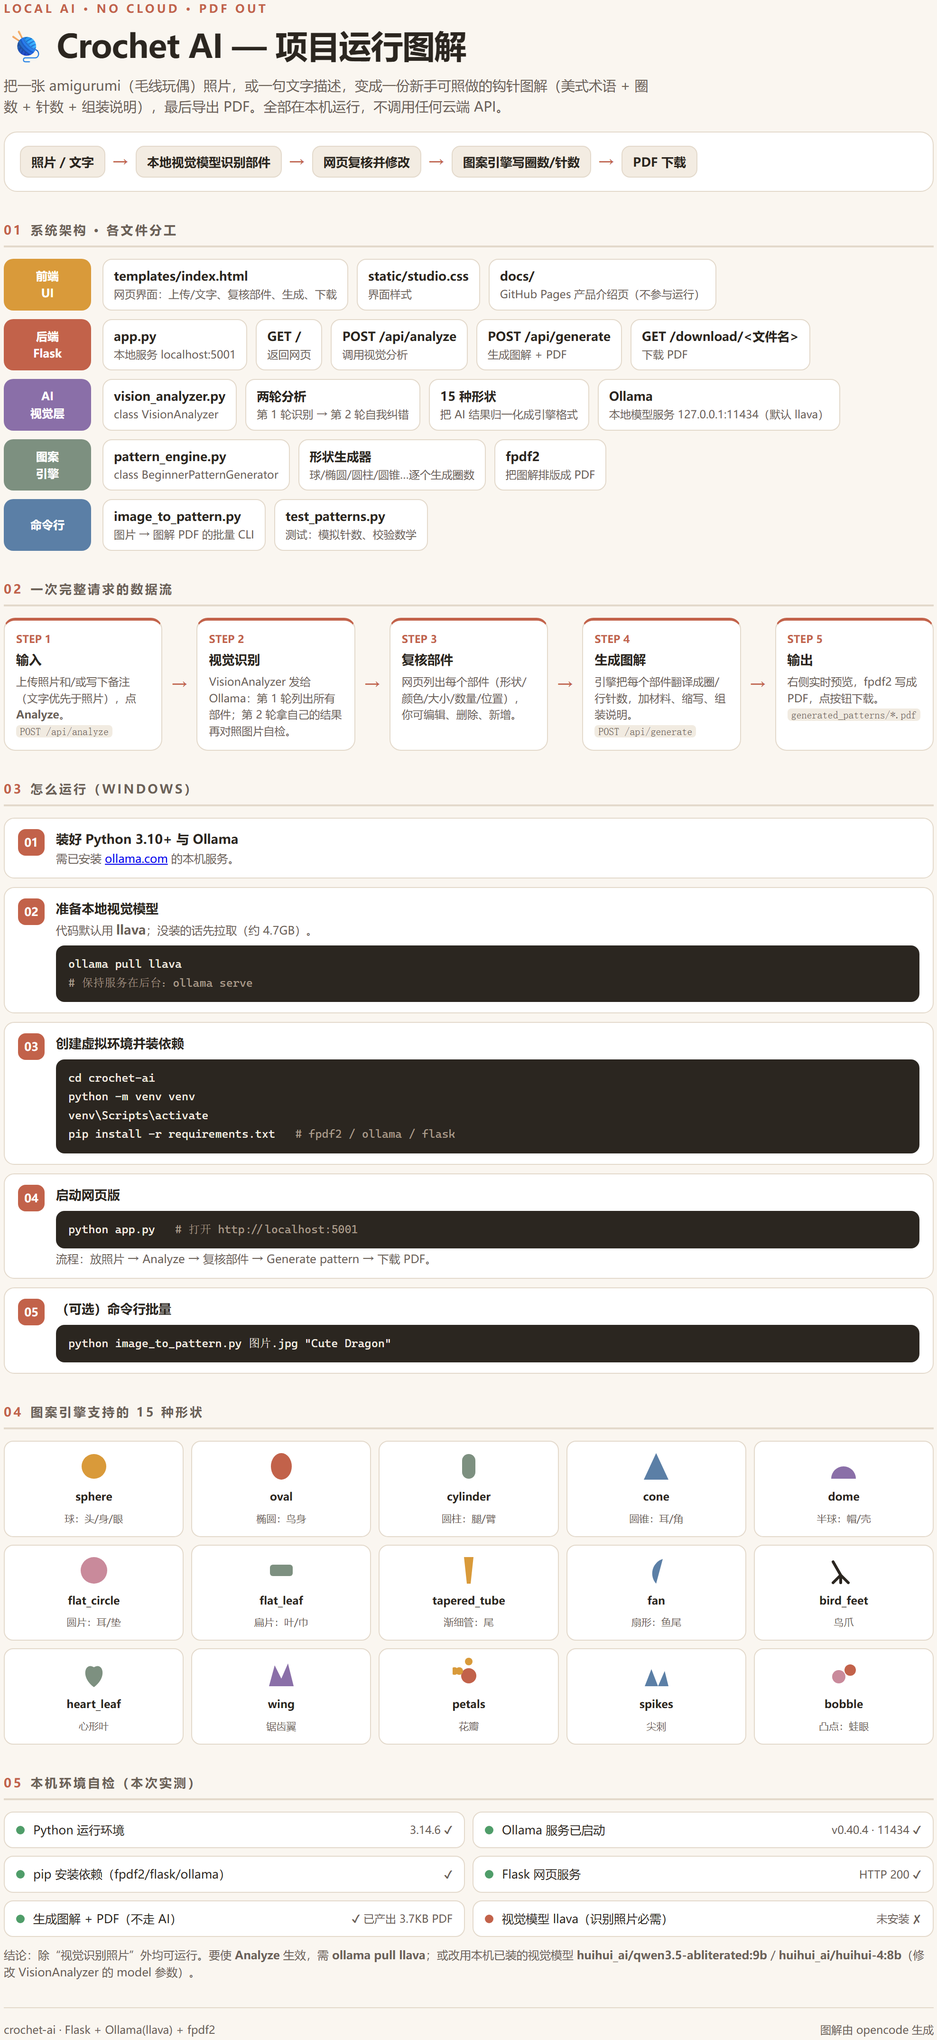
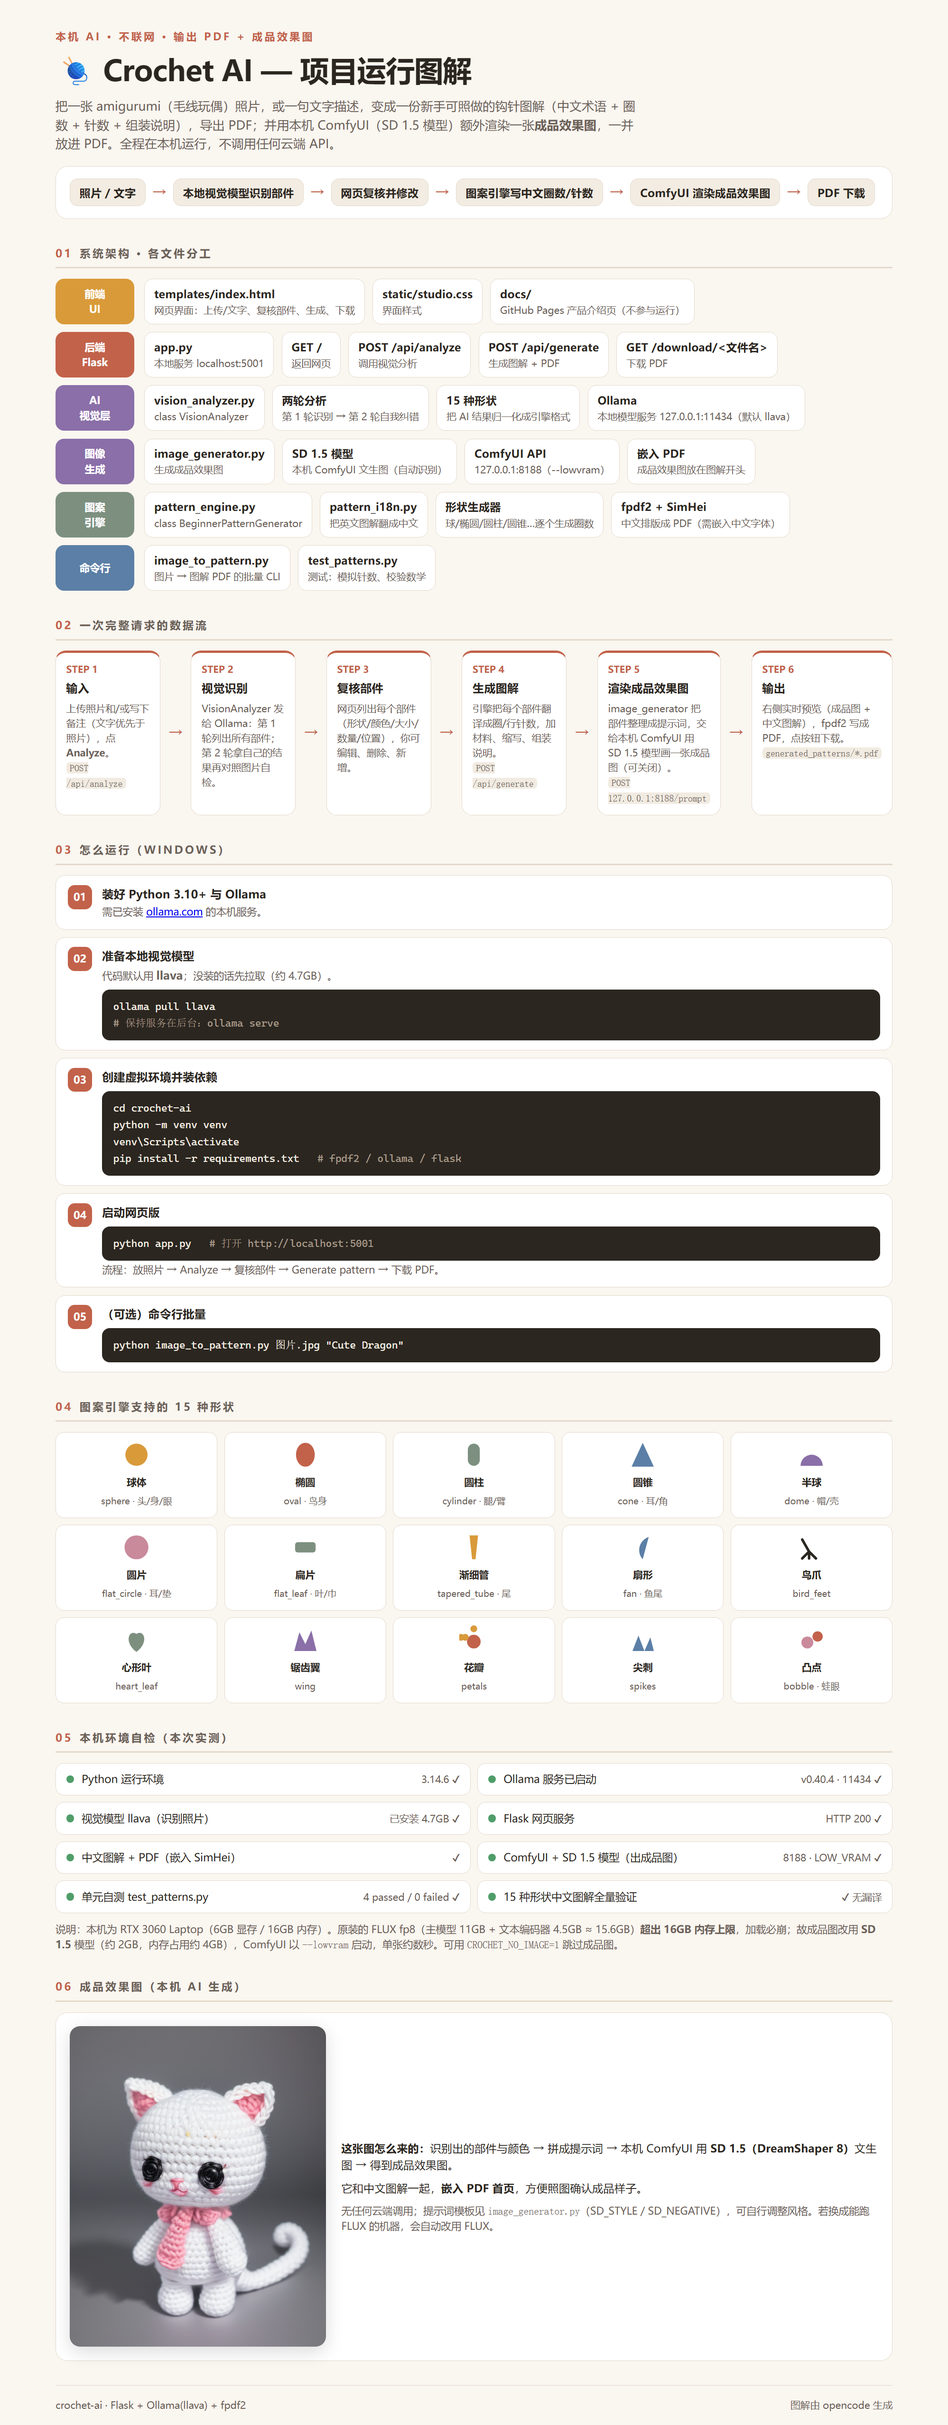
Add SD 1.5 backend for preview images; regenerate poster with a product image
The machine's FLUX install (unet 11 GB + t5 4.5 GB = 15.6 GB) does not fit in
16 GB of RAM, so FLUX cannot load here at all. image_generator.py now
auto-detects the backend: it prefers a plain checkpoint in models/checkpoints
(the 'sd' path: CheckpointLoaderSimple + KSampler, ~2-4 GB, runs comfortably on
this laptop) and only falls back to the FLUX unet workflow when no checkpoint
exists.

- image_generator.py: backend() detection, build_sd_workflow(), SD prompt
  template with a negative prompt, per-backend sizes/steps.
- README: documents both backends and the new env vars (COMFY_CKPT, COMFY_SIZE).
- diagrams/overview.html: all-Chinese poster, new '06 finished product' section
  with the real render, environment check updated.
- diagrams/preview.png + regenerated diagrams/crochet-ai-运行图解.png
  (1998x5107), rendered with headless Chrome.

diff --git a/diagrams/overview.html b/diagrams/overview.html
@@ -89,7 +89,7 @@
 
   <div class="kicker">本机 AI · 不联网 · 输出 PDF + 成品效果图</div>
   <h1>🧶 Crochet AI — 项目运行图解</h1>
-  <p class="lede">把一张 amigurumi（毛线玩偶）照片，或一句文字描述，变成一份新手可照做的钩针图解（中文术语 + 圈数 + 针数 + 组装说明），导出 PDF；并用本机 ComfyUI（FLUX）额外渲染一张<b>成品效果图</b>，一并放进 PDF。全程在本机运行，不调用任何云端 API。</p>
+  <p class="lede">把一张 amigurumi（毛线玩偶）照片，或一句文字描述，变成一份新手可照做的钩针图解（中文术语 + 圈数 + 针数 + 组装说明），导出 PDF；并用本机 ComfyUI（SD 1.5 模型）额外渲染一张<b>成品效果图</b>，一并放进 PDF。全程在本机运行，不调用任何云端 API。</p>
 
   <div class="flow-line">
     <span class="node">照片 / 文字</span><span class="arrow">→</span>
@@ -135,7 +135,7 @@
         <div class="tag t-ai">图像<br>生成</div>
         <div class="body">
           <div class="chip"><b>image_generator.py</b><span>生成成品效果图</span></div>
-          <div class="chip"><b>FLUX.1-dev (fp8)</b><span>本机 ComfyUI 文生图</span></div>
+          <div class="chip"><b>SD 1.5 模型</b><span>本机 ComfyUI 文生图（自动识别）</span></div>
           <div class="chip"><b>ComfyUI API</b><span>127.0.0.1:8188（--lowvram）</span></div>
           <div class="chip"><b>嵌入 PDF</b><span>成品效果图放在图解开头</span></div>
         </div>
@@ -187,7 +187,7 @@
       <div class="conn">→</div>
       <div class="pstep">
         <div class="num">STEP 5</div><h4>渲染成品效果图</h4>
-        <p>image_generator 把部件整理成提示词，交给本机 ComfyUI 用 FLUX 画一张成品图（可关闭）。</p>
+        <p>image_generator 把部件整理成提示词，交给本机 ComfyUI 用 SD 1.5 模型画一张成品图（可关闭）。</p>
         <p><code>POST 127.0.0.1:8188/prompt</code></p>
       </div>
       <div class="conn">→</div>
@@ -253,11 +253,11 @@ pip install -r requirements.txt   <span class="c"># fpdf2 / ollama / flask</span
       <div class="check"><span class="dot ok"></span>视觉模型 llava（识别照片）<span class="v">已安装 4.7GB ✔</span></div>
       <div class="check"><span class="dot ok"></span>Flask 网页服务<span class="v">HTTP 200 ✔</span></div>
       <div class="check"><span class="dot ok"></span>中文图解 + PDF（嵌入 SimHei）<span class="v">✔</span></div>
-      <div class="check"><span class="dot ok"></span>ComfyUI + FLUX.1-dev(fp8)<span class="v">8188 · LOW_VRAM ✔</span></div>
+      <div class="check"><span class="dot ok"></span>ComfyUI + SD 1.5 模型（出成品图）<span class="v">8188 · LOW_VRAM ✔</span></div>
       <div class="check"><span class="dot ok"></span>单元自测 test_patterns.py<span class="v">4 passed / 0 failed ✔</span></div>
       <div class="check"><span class="dot ok"></span>15 种形状中文图解全量验证<span class="v">✔ 无漏译</span></div>
     </div>
-    <p class="note" style="margin-top:10px;">说明：本机为 RTX 3060 Laptop（6GB 显存），FLUX fp8 需以 <b>--lowvram</b> 启动 ComfyUI，单张成品图约数十秒到数分钟；显存不足时可把渲染尺寸降到 512–768，或用 <code>CROCHET_NO_IMAGE=1</code> 跳过成品图。</p>
+    <p class="note" style="margin-top:10px;">说明：本机为 RTX 3060 Laptop（6GB 显存 / 16GB 内存）。原装的 FLUX fp8（主模型 11GB + 文本编码器 4.5GB ≈ 15.6GB）<b>超出 16GB 内存上限</b>，加载必崩；故成品图改用 <b>SD 1.5</b> 模型（约 2GB，内存占用约 4GB），ComfyUI 以 <code>--lowvram</code> 启动，单张约数秒。可用 <code>CROCHET_NO_IMAGE=1</code> 跳过成品图。</p>
   </section>
 
   <!-- 6. FINISHED PRODUCT IMAGE -->
@@ -266,9 +266,9 @@ pip install -r requirements.txt   <span class="c"># fpdf2 / ollama / flask</span
     <div style="display:flex; gap:18px; align-items:center; background:var(--card); border:1px solid var(--line); border-radius:14px; padding:16px;">
       <img src="preview.png" alt="成品效果图" style="width:300px; border-radius:12px; box-shadow:0 6px 22px rgba(0,0,0,.14);">
       <div style="font-size:13px;">
-        <p style="margin-bottom:8px;"><b>这张图怎么来的：</b>识别出的部件与颜色 → 拼成提示词 → 本机 ComfyUI 用 <b>FLUX.1-dev</b> 文生图 → 得到成品效果图。</p>
+        <p style="margin-bottom:8px;"><b>这张图怎么来的：</b>识别出的部件与颜色 → 拼成提示词 → 本机 ComfyUI 用 <b>SD 1.5（DreamShaper 8）</b>文生图 → 得到成品效果图。</p>
         <p style="margin-bottom:8px;">它和中文图解一起，<b>嵌入 PDF 首页</b>，方便照图确认成品样子。</p>
-        <p class="note">无任何云端调用；提示词模板见 <code>image_generator.py</code>（STYLE），可自行调整风格。</p>
+        <p class="note">无任何云端调用；提示词模板见 <code>image_generator.py</code>（SD_STYLE / SD_NEGATIVE），可自行调整风格。若换成能跑 FLUX 的机器，会自动改用 FLUX。</p>
       </div>
     </div>
   </section>

diff --git a/image_generator.py b/image_generator.py
@@ -2,16 +2,25 @@
 Finished-product preview image generation via a local ComfyUI server.
 
 The project ships no image model of its own; instead it talks to a running
-ComfyUI instance (default http://127.0.0.1:8188) and runs a standard
-FLUX.1-dev text-to-image workflow to render a "what it will look like"
-photo of the finished amigurumi, which is then embedded in the PDF.
+ComfyUI instance (default http://127.0.0.1:8188) and renders a
+"what it will look like" photo of the finished amigurumi, which is then
+embedded in the PDF.
 
-Everything degrades gracefully: if ComfyUI is not reachable the caller simply
-skips the image.
+Two backends are supported and auto-detected from what the server has loaded:
+
+  * "sd"   - a regular Stable Diffusion checkpoint (CheckpointLoaderSimple).
+             Small (2-4 GB) and comfortable on a 16 GB / 6 GB-VRAM machine.
+  * "flux" - FLUX.1-dev (UNETLoader + DualCLIPLoader + VAELoader). Needs a lot
+             more memory (unet 11 GB + t5 4.5 GB), only for beefier machines.
+
+Everything degrades gracefully: if ComfyUI is not reachable, or has no usable
+model, the caller simply skips the image.
 
 Public API:
     available() -> bool
+    backend() -> ("sd", name) | ("flux", name) | None
     build_product_prompt(pattern_data, title) -> str
+    negative_prompt() -> str
     generate(prompt, out_path, **overrides) -> str | None
 """
 
@@ -24,25 +33,44 @@ import urllib.request
 
 COMFY_URL = os.environ.get("COMFYUI_URL", "http://127.0.0.1:8188")
 
-# Model files present in the portable ComfyUI install (override via env).
+# ---- explicit overrides (all optional) -------------------------------------
+COMFY_CKPT = os.environ.get("COMFY_CKPT", "")          # e.g. DreamShaper_8_pruned.safetensors
 UNET_NAME = os.environ.get("COMFY_UNET", "flux1-dev-fp8.safetensors")
 CLIP_L = os.environ.get("COMFY_CLIP_L", "clip_l.safetensors")
 CLIP_T5 = os.environ.get("COMFY_CLIP_T5", "t5xxl_fp8_e4m3fn.safetensors")
 VAE_NAME = os.environ.get("COMFY_VAE", "ae.safetensors")
 
-STYLE = (
-    "professional product photo of a handmade crochet amigurumi toy, "
-    "soft wool yarn texture, visible single-crochet stitches, "
-    "cute kawaii style, standing on a plain light grey surface, "
-    "soft even studio lighting, shallow depth of field, sharp focus, "
-    "high detail, 4k"
+# ---- prompts ---------------------------------------------------------------
+# Shared look-and-feel of the subject.
+SUBJECT_STYLE = (
+    "handmade crochet amigurumi toy made of yarn, "
+    "soft wool yarn texture, visible single crochet stitches, "
+    "cute kawaii design, standing on a plain light grey surface"
 )
 
-# Rendering size. 1024 is FLUX-native but 6 GB of VRAM needs the smaller
-# default; override with COMFY_SIZE (square) or COMFY_WIDTH/COMFY_HEIGHT.
-DEFAULT_SIZE = int(os.environ.get("COMFY_SIZE", "768"))
-DEFAULT_WIDTH = int(os.environ.get("COMFY_WIDTH", str(DEFAULT_SIZE)))
-DEFAULT_HEIGHT = int(os.environ.get("COMFY_HEIGHT", str(DEFAULT_SIZE)))
+# SD checkpoints respond well to a positive quality tail plus a negative list.
+SD_STYLE = (
+    SUBJECT_STYLE + ", professional product photo, soft even studio lighting, "
+    "shallow depth of field, sharp focus, highly detailed, 8k"
+)
+SD_NEGATIVE = (
+    "blurry, lowres, low quality, worst quality, jpeg artifacts, deformed, "
+    "disfigured, bad anatomy, extra limbs, extra fingers, fused fingers, "
+    "watermark, text, signature, logo, ugly, mutated, cropped, out of frame"
+)
+
+# FLUX dev prefers a plain, descriptive sentence and no negative prompt.
+FLUX_STYLE = (
+    SUBJECT_STYLE + ", professional product photo, soft even studio lighting, "
+    "shallow depth of field, sharp focus, high detail, 4k"
+)
+
+# Rendering size. SD 1.5 is native at 512; FLUX at 1024.
+# Override with COMFY_SIZE (square) or COMFY_WIDTH/COMFY_HEIGHT.
+SD_DEFAULT_WIDTH = int(os.environ.get("COMFY_WIDTH", os.environ.get("COMFY_SIZE", "512")))
+SD_DEFAULT_HEIGHT = int(os.environ.get("COMFY_HEIGHT", os.environ.get("COMFY_SIZE", "640")))
+FLUX_DEFAULT_WIDTH = int(os.environ.get("COMFY_WIDTH", os.environ.get("COMFY_SIZE", "768")))
+FLUX_DEFAULT_HEIGHT = int(os.environ.get("COMFY_HEIGHT", os.environ.get("COMFY_SIZE", "768")))
 
 
 def _get(path, timeout=10):
@@ -71,14 +99,94 @@ def available(url=None):
         return False
 
 
-def build_flux_workflow(prompt, negative="", width=1024, height=1024,
-                        steps=20, guidance=3.5, seed=None):
-    """FLUX.1-dev txt2img in ComfyUI API format.
+def _enum(node, field):
+    """Pull the allowed values of a combo/COMBO input out of /object_info."""
+    try:
+        info = _get("/object_info", timeout=60)
+        spec = info[node]["input"]["required"][field][0]
+        return list(spec) if isinstance(spec, (list, tuple)) else []
+    except Exception:
+        return []
 
-    Mirrors the known-good workflow already saved in this machine's ComfyUI
-    (image_flux.json): UNETLoader + DualCLIPLoader + VAELoader, FluxGuidance,
-    ConditioningZeroOut as the negative, plain KSampler (cfg 1, euler, simple).
-    """
+
+def backend():
+    """Decide which workflow to use. Returns (kind, model_name) or None."""
+    ckpts = _enum("CheckpointLoaderSimple", "ckpt_name")
+    ckpts = [c for c in ckpts if c.lower().endswith((".safetensors", ".ckpt"))]
+
+    if COMFY_CKPT and COMFY_CKPT in ckpts:
+        return ("sd", COMFY_CKPT)
+    if ckpts:
+        return ("sd", ckpts[0])
+
+    unets = _enum("UNETLoader", "unet_name")
+    if unets:
+        name = UNET_NAME if UNET_NAME in unets else unets[0]
+        return ("flux", name)
+    return None
+
+
+def negative_prompt():
+    """Negative prompt used by the SD backend (FLUX ignores it)."""
+    return SD_NEGATIVE
+
+
+def build_product_prompt(pattern_data, title="amigurumi"):
+    """Turn the analysed pattern into a concrete image prompt."""
+    names, colors = [], []
+    for p in pattern_data or []:
+        if not isinstance(p, dict):
+            continue
+        n = str(p.get("name") or "").strip()
+        c = str(p.get("color") or "").strip()
+        if n:
+            names.append(n)
+        if c:
+            colors.append(c)
+
+    animal = title.replace("_", " ").strip() or "cute animal"
+    parts = ", ".join(dict.fromkeys(names))[:200]
+    col = ", ".join(dict.fromkeys(colors))[:120]
+
+    prompt = f"A crochet amigurumi {animal} made of yarn"
+    if col:
+        prompt += f", colors: {col}"
+    if parts:
+        prompt += f" (parts: {parts})"
+    return f"{prompt}. {SD_STYLE}"
+
+
+# --------------------------------------------------------------------------- #
+# Workflows (ComfyUI API format)
+# --------------------------------------------------------------------------- #
+def build_sd_workflow(prompt, negative, ckpt_name, width=512, height=640,
+                      steps=25, cfg=7.0, seed=None,
+                      sampler="dpmpp_2m", scheduler="karras"):
+    """Standard Stable Diffusion txt2img (SD 1.5 / SD 2.x / SDXL checkpoints)."""
+    seed = int(seed if seed is not None else time.time() * 1000) % (2 ** 31)
+    return {
+        "1": {"class_type": "CheckpointLoaderSimple", "inputs": {"ckpt_name": ckpt_name}},
+        "2": {"class_type": "CLIPTextEncode",
+              "inputs": {"text": prompt, "clip": ["1", 1]}},
+        "3": {"class_type": "CLIPTextEncode",
+              "inputs": {"text": negative, "clip": ["1", 1]}},
+        "4": {"class_type": "EmptyLatentImage",
+              "inputs": {"width": width, "height": height, "batch_size": 1}},
+        "5": {"class_type": "KSampler",
+              "inputs": {"model": ["1", 0], "positive": ["2", 0], "negative": ["3", 0],
+                         "latent_image": ["4", 0], "seed": seed, "steps": steps,
+                         "cfg": cfg, "sampler_name": sampler,
+                         "scheduler": scheduler, "denoise": 1.0}},
+        "6": {"class_type": "VAEDecode",
+              "inputs": {"samples": ["5", 0], "vae": ["1", 2]}},
+        "7": {"class_type": "SaveImage",
+              "inputs": {"filename_prefix": "crochet_preview", "images": ["6", 0]}},
+    }
+
+
+def build_flux_workflow(prompt, negative="", width=768, height=768,
+                        steps=20, guidance=3.5, seed=None):
+    """FLUX.1-dev txt2img (UNETLoader + DualCLIPLoader + FluxGuidance)."""
     seed = int(seed if seed is not None else time.time() * 1000) % (2 ** 31)
     return {
         "1": {"class_type": "UNETLoader",
@@ -105,48 +213,41 @@ def build_flux_workflow(prompt, negative="", width=1024, height=1024,
     }
 
 
-def build_product_prompt(pattern_data, title="amigurumi"):
-    """Turn the analysed pattern into a concrete image prompt."""
-    names, colors = [], []
-    for p in pattern_data or []:
-        if not isinstance(p, dict):
-            continue
-        n = str(p.get("name") or "").strip()
-        c = str(p.get("color") or "").strip()
-        if n:
-            names.append(n)
-        if c:
-            colors.append(c)
-
-    animal = title.replace("_", " ").strip() or "cute animal"
-    subject = animal
-    # A head + body + ears/tail usually means an animal; keep the title as the subject.
-    parts = ", ".join(dict.fromkeys(names))[:200]
-    col = ", ".join(dict.fromkeys(colors))[:120]
-
-    prompt = f"A crochet amigurumi {subject}, made of yarn"
-    if col:
-        prompt += f", colors: {col}"
-    if parts:
-        prompt += f" (parts: {parts})"
-    prompt += f". {STYLE}"
-    return prompt
-
-
-def generate(prompt, out_path, negative="", width=None, height=None,
-             steps=20, guidance=3.5, seed=None, timeout=1800):
-    """Run the workflow and save the first output image to out_path.
+def generate(prompt, out_path, negative=None, width=None, height=None,
+             steps=None, guidance=None, seed=None, timeout=1800):
+    """Render one image and save it to out_path.
 
     Returns out_path on success, or None if ComfyUI is unavailable / failed.
     """
-    width = DEFAULT_WIDTH if width is None else width
-    height = DEFAULT_HEIGHT if height is None else height
     if not available():
         print("[image] ComfyUI not reachable at", COMFY_URL)
         return None
 
-    wf = build_flux_workflow(prompt, negative=negative, width=width,
-                             height=height, steps=steps, guidance=guidance, seed=seed)
+    be = backend()
+    if be is None:
+        print("[image] no usable model found on the ComfyUI server "
+              "(no checkpoint and no unet)")
+        return None
+    kind, name = be
+
+    if kind == "sd":
+        neg = negative if negative is not None else SD_NEGATIVE
+        w = width or SD_DEFAULT_WIDTH
+        h = height or SD_DEFAULT_HEIGHT
+        st = steps or 25
+        cfg = guidance or 7.0
+        wf = build_sd_workflow(prompt, neg, name, width=w, height=h,
+                               steps=st, cfg=cfg, seed=seed)
+        print(f"[image] backend=sd checkpoint={name} {w}x{h} steps={st} cfg={cfg}")
+    else:
+        w = width or FLUX_DEFAULT_WIDTH
+        h = height or FLUX_DEFAULT_HEIGHT
+        st = steps or 20
+        g = guidance or 3.5
+        wf = build_flux_workflow(prompt, negative or "", width=w, height=h,
+                                 steps=st, guidance=g, seed=seed)
+        print(f"[image] backend=flux unet={name} {w}x{h} steps={st} guidance={g}")
+
     try:
         resp = _post("/prompt", {"prompt": wf})
     except urllib.error.HTTPError as e:
@@ -157,7 +258,7 @@ def generate(prompt, out_path, negative="", width=None, height=None,
     if not pid:
         print("[image] no prompt_id in response:", resp)
         return None
-    print(f"[image] queued prompt {pid}, generating…")
+    print(f"[image] queued prompt {pid}, generating...")
 
     deadline = time.time() + timeout
     while time.time() < deadline:
@@ -169,7 +270,6 @@ def generate(prompt, out_path, negative="", width=None, height=None,
         if pid not in hist:
             continue
         entry = hist[pid]
-        # surface execution errors
         status = entry.get("status", {})
         if status.get("status_str") == "error":
             print("[image] execution error:", json.dumps(status)[:2000])
@@ -200,6 +300,11 @@ def generate(prompt, out_path, negative="", width=None, height=None,
 
 if __name__ == "__main__":
     import sys
+
     print("ComfyUI reachable:", available())
-    p = sys.argv[1] if len(sys.argv) > 1 else "a cute crochet amigurumi cat"
-    generate(p, r"C:\Users\MSII\AppData\Local\Temp\opencode\cr-vision\flux_test.png")
+    print("backend:", backend())
+    p = sys.argv[1] if len(sys.argv) > 1 else (
+        "A crochet amigurumi cat made of yarn, white and grey. " + SD_STYLE)
+    out = sys.argv[2] if len(sys.argv) > 2 else (
+        r"C:\Users\MSII\AppData\Local\Temp\opencode\cr-vision\sd_test.png")
+    generate(p, out)

diff --git a/README.md b/README.md
@@ -75,14 +75,21 @@ Writes `<Name>_Pattern.pdf` next to where you run it. Needs the same local model
 ### 5. Finished-product image (optional — needs ComfyUI)
 
 Besides the text pattern, the app can render a **what-it-will-look-like photo** of the
-finished amigurumi and drop it into the PDF. This uses a local **ComfyUI** server (FLUX.1-dev);
+finished amigurumi and drop it into the PDF. This uses a local **ComfyUI** server;
 there is no cloud call. If ComfyUI is not running the step is simply skipped.
+
+`image_generator.py` auto-detects what the server has loaded:
+
+| Backend | Detected when | Model size | Notes |
+| --- | --- | --- | --- |
+| `sd` | a checkpoint exists in `models/checkpoints` | 2–4 GB | Works on a 16 GB RAM / 6 GB VRAM laptop. Used first. |
+| `flux` | no checkpoint, but a unet in `models/unet` | ~16 GB | Needs a lot of memory (unet 11 GB + t5 4.5 GB). Only for beefier machines. |
 
 Start ComfyUI (the portable build works well), then run the app normally:
 
 ```bash
 # in the ComfyUI portable folder (low-VRAM cards need --lowvram)
-python_embeded\python.exe -s ComfyUI\main.py --lowvram --disable-dynamic-vram --disable-all-custom-nodes
+python_embeded\python.exe -s ComfyUI\main.py --lowvram --disable-all-custom-nodes
 ```
 
 Relevant settings (all optional, environment variables):
@@ -90,8 +97,9 @@ Relevant settings (all optional, environment variables):
 | Variable | Default | Meaning |
 | --- | --- | --- |
 | `COMFYUI_URL` | `http://127.0.0.1:8188` | ComfyUI server |
-| `COMFY_SIZE` | `768` | square render size (lower = less VRAM, e.g. `512`) |
-| `COMFY_UNET` / `COMFY_CLIP_T5` / `COMFY_CLIP_L` / `COMFY_VAE` | FLUX dev fp8 names | model files |
+| `COMFY_CKPT` | first checkpoint found | force a specific checkpoint file |
+| `COMFY_SIZE` | `512x640` (`sd`) / `768` (`flux`) | render size; lower = less memory |
+| `COMFY_UNET` / `COMFY_CLIP_T5` / `COMFY_CLIP_L` / `COMFY_VAE` | FLUX dev fp8 names | FLUX model files |
 | `CROCHET_NO_IMAGE` | unset | set to `1` to skip image generation entirely |
 
 In the web UI there is a checkbox next to **Generate pattern**. On the CLI the image is
